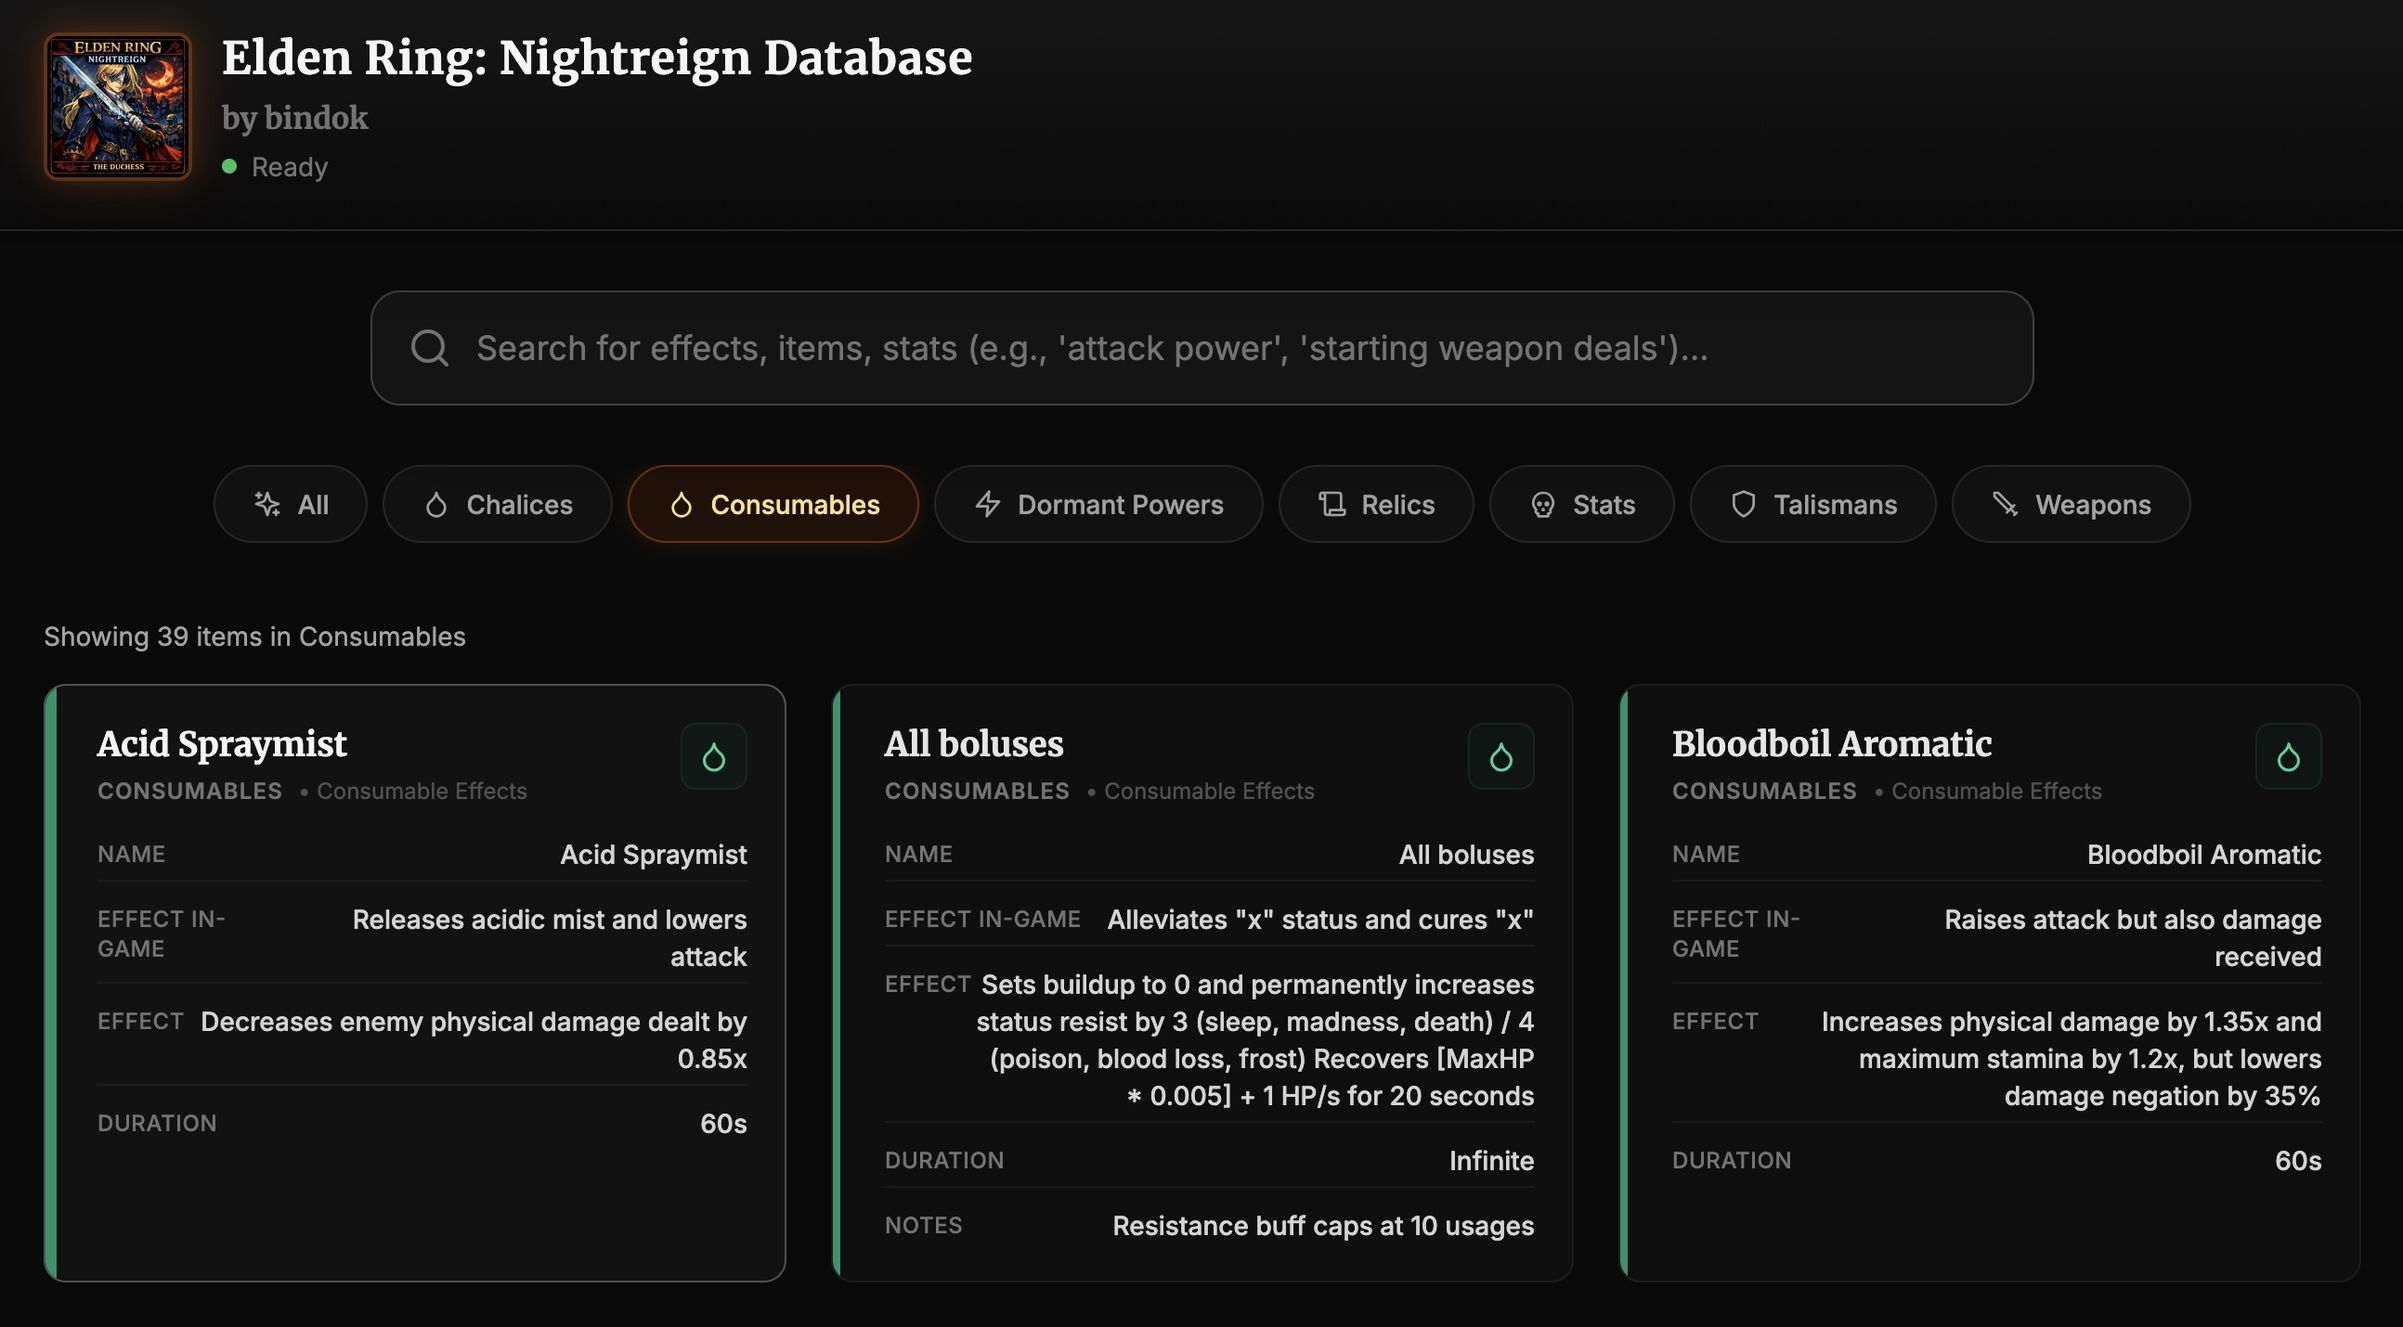
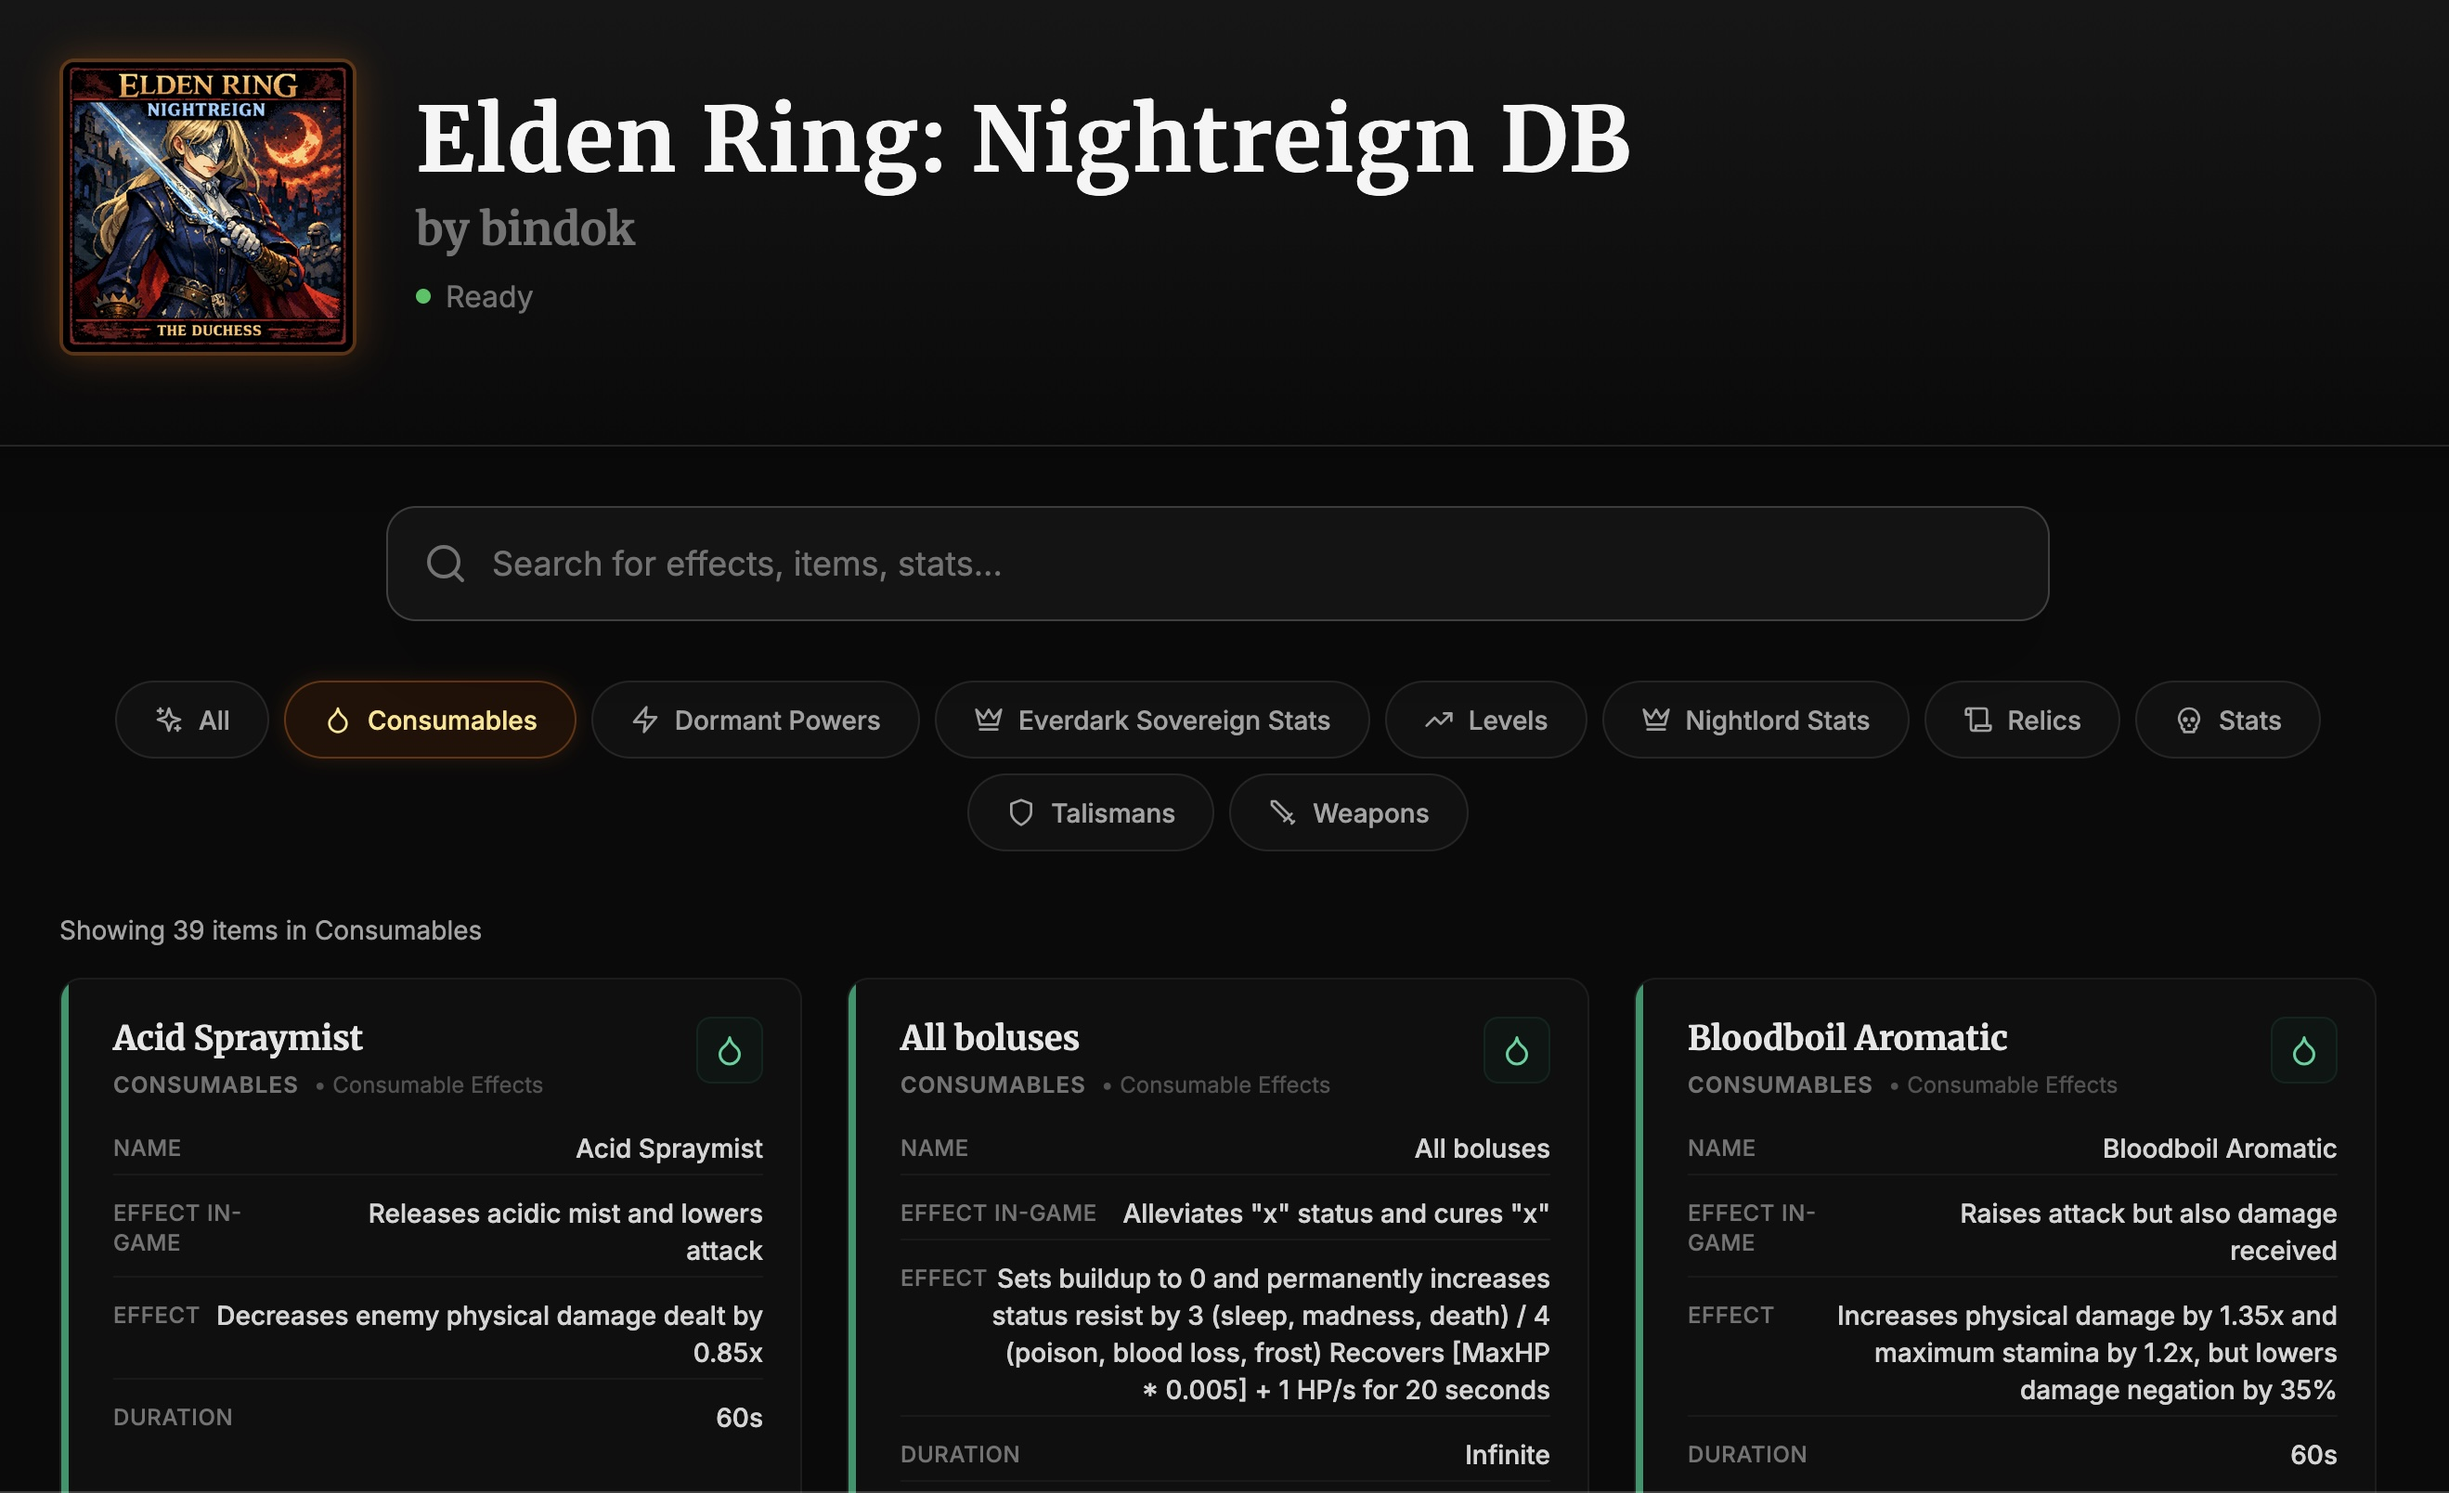
feat: add dynamic cards

diff --git a/src/components/DataCard.jsx b/src/components/DataCard.jsx
@@ -1,6 +1,6 @@
-import React from 'react';
+import React, { useState } from 'react';
 import {
-  Sparkles, Shield, Sword, Zap, Scroll, Droplet, Skull, Crown
+  Sparkles, Shield, Sword, Zap, Scroll, Droplet, Skull, Crown, ChevronDown, ChevronUp
 } from 'lucide-react';
 
 const CATEGORY_CONFIG = {
@@ -27,6 +27,8 @@ const SHEET_TITLE_COLUMN = {
 };
 
 export function DataCard({ item, searchQuery }) {
+  const [isExpanded, setIsExpanded] = useState(false);
+
   const category = item._category || 'Other';
   const sheetName = item._sheet || 'Unknown';
 
@@ -49,6 +51,9 @@ export function DataCard({ item, searchQuery }) {
     item[key] !== undefined &&
     item[key] !== ''
   );
+
+  const hasMoreFields = displayKeys.length > 8;
+  const fieldsToShow = isExpanded ? displayKeys : displayKeys.slice(0, 8);
 
   // Highlight text matching the search query
   const highlightText = (text, query) => {
@@ -119,7 +124,7 @@ export function DataCard({ item, searchQuery }) {
 
         {/* Data Fields */}
         <div className="space-y-2.5">
-          {displayKeys.slice(0, 8).map(key => (
+          {fieldsToShow.map(key => (
             <div
               key={key}
               className="flex flex-col sm:flex-row sm:justify-between text-sm border-b border-neutral-800/50 pb-1 last:border-0 last:pb-0"
@@ -136,10 +141,23 @@ export function DataCard({ item, searchQuery }) {
               </span>
             </div>
           ))}
-          {displayKeys.length > 8 && (
-            <p className="text-xs text-neutral-600 italic pt-1 text-right">
-              +{displayKeys.length - 8} more fields...
-            </p>
+          {hasMoreFields && (
+            <button
+              onClick={() => setIsExpanded(!isExpanded)}
+              className="w-full text-xs text-neutral-500 hover:text-neutral-300 italic pt-1 flex items-center justify-end gap-1 transition-colors"
+            >
+              {isExpanded ? (
+                <>
+                  Show less
+                  <ChevronUp size={14} />
+                </>
+              ) : (
+                <>
+                  +{displayKeys.length - 8} more fields...
+                  <ChevronDown size={14} />
+                </>
+              )}
+            </button>
           )}
         </div>
       </div>

diff --git a/README.md b/README.md
@@ -1,4 +1,4 @@
-# Elden Ring: Nightreign Database
+# Elden Ring: Nightreign DB
 
 A comprehensive, searchable database for Elden Ring: Nightreign items, stats, effects, and more.
 
